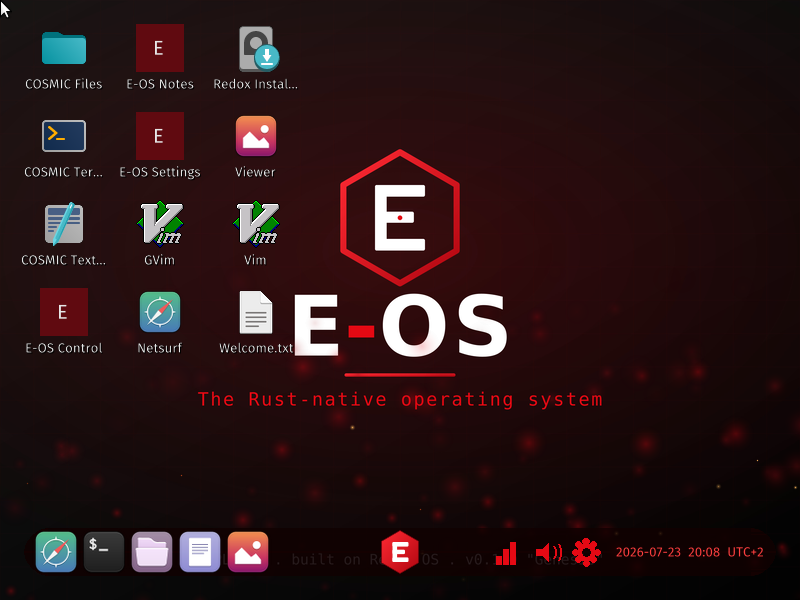
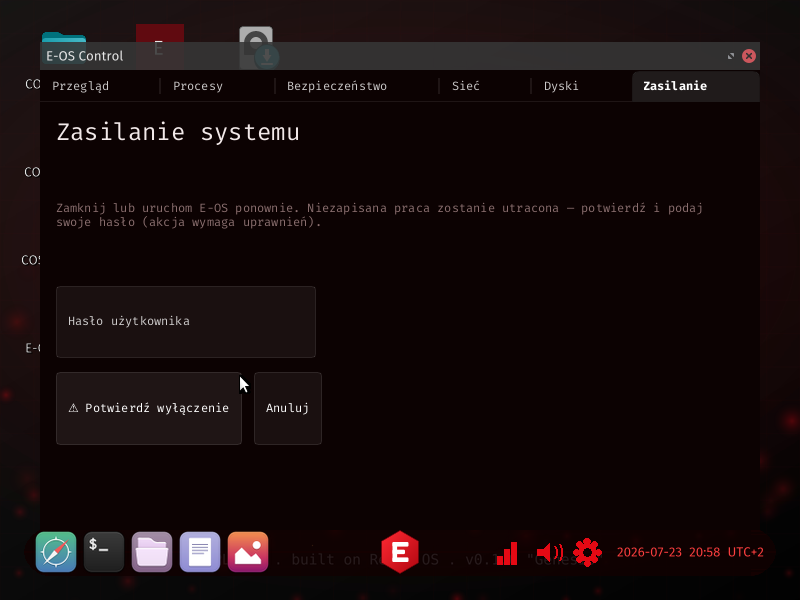
feat(control): power actions work — eos-power shim + password dialog (U-109, R-D11 ✅)
eos-control 2c043b4 → aa9029a. Completes U-108: reboot/shutdown from the GUI now
actually take the machine down. The desktop user's password isn't empty
(first-boot sets it), so no shortcut — a new eos-power bin elevates the way sudo
does internally (open /scheme/sudo, write the password, elevate the procfd via
call_wo + CallFlags::FD, setns) then writes sys:kstop. The GUI never runs as
root: it spawns eos-power and pipes the password to its stdin. The Zasilanie tab
reveals a password field once an action is armed.

Verified end-to-end: arming Wyłącz, typing the password, and confirming powered
the VM off — the QEMU process exited (assets/screenshots/eos-control-power.png).
Deps: libredox 0.1.18 +mkns, redox_syscall 0.9, redox_cur_procfd_v0. Two bins
(eos-control + eos-power); default-run = eos-control. pins --strict green.

diff --git a/ROADMAP.md b/ROADMAP.md
@@ -245,7 +245,7 @@ Recommended order, realistic per-item scope and QEMU verification plans live in
 - ⏳ `R-D07` **Volume mixer UI; verify cosmic-edit boot** — Add an audio-mixer/volume UI and explicitly boot-verify cosmic-edit (only cosmic-files/term were verified after the R-402b loader fix). `[P2·M·Mac/QEMU]` · needs `R-D01`
 - ⏳ `R-D08` **Verify launcher .desktop membership** — The greeter→installer path is untested: confirm installer-gui, cosmic-edit and CLI tools actually appear via freedesktop .desktop entries present in the image (not in the exported source tree). `[P1·S·Mac/QEMU]`
 - ⏳ `R-D09` **netsurf: resizable window** — netsurf's window is fixed-size (R-D06 dropped `SDL_RESIZABLE` to dodge a use-after-munmap of the window buffer). Proper resize needs libnsfb's SDL surface to re-fetch `nsfb->ptr` after orbclient remaps on `EVENT_RESIZE` (and post an `SDL_VIDEORESIZE`); the right home is the SDL orbital driver / libnsfb, not the recipe. See `docs/design-netsurf-pie.md`. `[P3·M·Mac/QEMU]`
-- ⏳ `R-D11` **Privileged power actions from the GUI (reboot / shutdown)** — eos-control's Zasilanie tab renders and its two-step confirm works (U-108), but the action doesn't take the machine down: `sys:kstop` is root-only, eos-control runs as the desktop user (direct write → EPERM), and `sudo` from a GUI fails because it reads its password from a TTY the GUI has no access to. Proven the mechanism works: **root `shutdown -r` restarts the VM** (serial shows UEFI re-running; note a separate EDK2 warm-reboot firmware flake under QEMU-aarch64). **De-risked (2026-07-23):** the "just write an empty password to `/scheme/sudo`" shortcut is out — the desktop user's password is **not** empty (first-boot sets it; a shell login as `user` with an empty password returns `Login incorrect`), so any elevation needs the *real* password, which eos-control can't know. So a proper fix is a genuine feature: a **GUI password-prompt dialog** feeding the in-`/scheme/sudo` elevation dance (open the scheme, write the entered password, elevate the process fd + `setns` the way `sudo` does internally), then write `sys:kstop`. Alternative: a privileged helper daemon started at boot that the GUI signals (no per-action password). Neither is a quick fix; until one lands the buttons report honestly and point to the terminal. `[P2·M·Mac/QEMU]`
+- ✅ `R-D11` **Privileged power actions from the GUI (reboot / shutdown)** — done (U-109). `sys:kstop` is root-only and eos-control runs as the desktop user, whose password is **not** empty (first-boot sets it — verified: a shell login as `user` with an empty password returns `Login incorrect`), so there was no shortcut. Fixed with a dedicated **`eos-power`** shim that elevates the way `sudo` does internally — open `/scheme/sudo`, write the password (daemon checks sudo-group + password), elevate the process fd (`call_wo` + `CallFlags::FD`), `setns`, then write `sys:kstop`. The **GUI never runs as root**: it spawns `eos-power` and pipes the user's password to its stdin (no TTY problem). The Zasilanie tab reveals a password field once an action is armed. **Verified end-to-end:** arming *Wyłącz*, typing the password, and confirming **powered the VM off — QEMU exited** (`assets/screenshots/eos-control-power.png`). (Aside: root `shutdown -r` triggers a reboot too, though EDK2 has a separate warm-reboot flake under QEMU-aarch64; poweroff is the clean proof.)
 - ✅ `R-D10` **netsurf: web browsing over the network works** — Redox networking is fully functional on the aarch64/QEMU loop and netsurf browses the web. **A `-object filter-dump` pcap settled it (2026-07-19), and corrected an earlier wrong call:** the whole path works — virtio-netd binds the NIC (link up), netstack/smolnetd runs (`ip`/`tcp`/`udp`/`icmp`/`netcfg` + the `network.pci-…_virtio_net` link scheme present), `base.toml` ships a correct QEMU config (ip 10.0.2.15, gateway 10.0.2.2, /24, dns 9.9.9.9). The pcap shows **DHCP** (request→reply), **ARP** (who-has 10.0.2.2→reply), **ICMP** (ping the gateway, echo→reply), **DNS** (`A? example.com`→`A 104.20.23.154` in 23 ms), a full **TCP** handshake to an external host, **HTTP** (`GET /`→`HTTP/1.1 200 OK`), and a live **TLS** exchange on :443 — all bidirectional. `curl example.com` returns the real Example Domain HTML, and **netsurf's *own* fetch is in the pcap** (its DNS query + TCP + `HTTP/1.1 200 OK` for `http://example.com`, from netsurf's ports). *The earlier "packets don't flow out" diagnosis (commit `a38a1f9e`) was a false negative:* the raw-IP probe used `http://9.9.9.9/`, but **9.9.9.9:80 is closed even from the host** (Quad9 serves DNS/:443, not HTTP/:80), so the SYN correctly got no reply; the one-off `curl example.com` timeout was a transient. And it **renders**: driving netsurf's address bar to `http://example.com` (no Super, so no overlay) paints the live **Example Domain** page in full — heading, body text, the "Learn more" link (`assets/screenshots/eos-netsurf-web.png`). **Homepage stays `about:welcome`** (fast, offline-safe default; U-105) — point it at a web URL anytime. Done.
 
 

diff --git a/CHANGELOG.md b/CHANGELOG.md
@@ -7,6 +7,21 @@ History before `U-071` predates this file and lives in the git log (`git log`).
 ## [Unreleased]
 
 ### Added & Changed
+- `[U-109]` **eos-control: power actions now WORK — `eos-power` shim + password dialog (`R-D11` ✅)** —
+  eos-control `2c043b4 → aa9029a`. Completes U-108: reboot/shutdown from the GUI now actually take the
+  machine down. The control `sys:kstop` is root-only and the GUI runs as the desktop user (whose
+  password is **not** empty — first-boot sets it), so there was no shortcut. Done properly: a new
+  **`eos-power`** bin elevates the way `sudo` does *internally* — open `/scheme/sudo`, write the
+  password (the daemon checks sudo-group + the password), elevate our own procfd (`call_wo` +
+  `CallFlags::FD`), `setns`, then write `sys:kstop`. The **GUI never runs as root**: it spawns
+  `eos-power` and pipes the user's password to its **stdin** (so no TTY-password problem), and waits —
+  Ok = authenticated + `sys:kstop` written (machine going down), Err = bad password / no permission.
+  The Zasilanie tab now reveals a **password field** (`input-type: password`) once an action is armed.
+  Deps for the elevation: `libredox 0.1.18 +mkns`, `redox_syscall 0.9`, the `redox_cur_procfd_v0`
+  relibc hook. **Verified end-to-end (boot + click):** arming *Wyłącz*, typing the password, and
+  confirming **powered the VM off — the QEMU process exited** (`assets/screenshots/eos-control-power.png`
+  shows the password dialog). `--selftest` still only *references* the power fns (never invokes them);
+  host `EOS-CONTROL-SELFTEST-OK`. Two bins now (eos-control + eos-power); `default-run = eos-control`.
 - `[U-108]` **eos-control: Power tab (reboot / shutdown) — UI done, action needs privilege (partial)**
   — eos-control `847220c → 2c043b4`. Adds a **"Zasilanie"** tab: *Uruchom ponownie* / *Wyłącz*, each a
   **two-step confirm** (arm → "⚠ Potwierdź…", plus *Anuluj*) so a stray click can't take the machine
